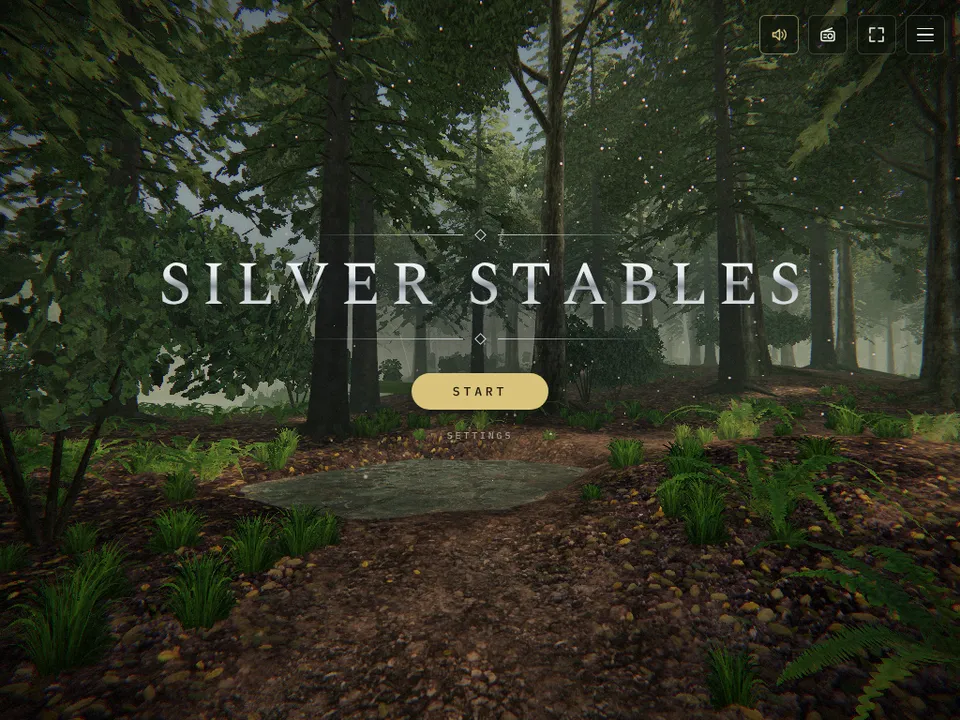
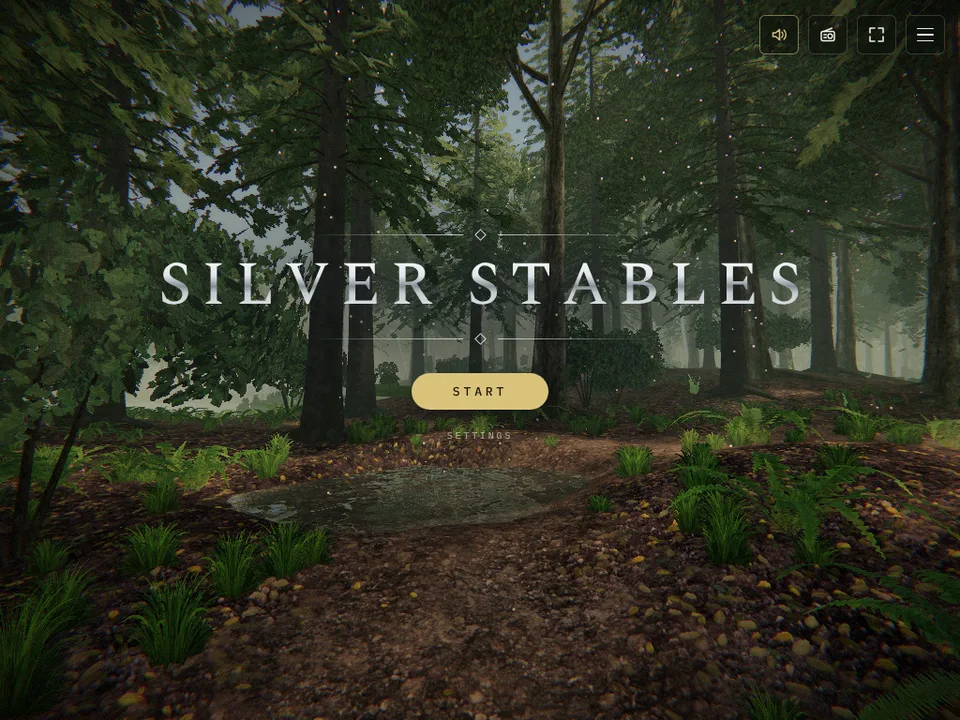
Retake screenshots from current builds; dots and arrows use the colour mode
Claude-Session: https://claude.ai/code/session_01Dmwaw2tYDCJukoA4bse8XX

diff --git a/index.html b/index.html
@@ -198,6 +198,14 @@ footer{margin-top:48px;font:400 14px/1 var(--sans);color:var(--t2)}
 .dev2 .ipad img,.dev2 .dev img{border-radius:0;padding:0;object-fit:cover;object-position:top center;transition:transform 1.2s cubic-bezier(.2,.8,.2,1)}
 .card:hover .dev2 img{transform:scale(1.02)}
 .dots{bottom:12px}
+
+/* dots and arrows take the colour mode's neutrals, not the app colour */
+.dots,.nav{background:color-mix(in srgb,var(--bar) 82%,transparent);backdrop-filter:blur(12px) saturate(1.2);-webkit-backdrop-filter:blur(12px) saturate(1.2)}
+.dot{background:color-mix(in srgb,var(--t2) 45%,transparent)}
+.dot.on{background:var(--t1)}
+.dot:focus-visible,.nav:focus-visible{outline-color:var(--t2)}
+.nav{color:var(--t2)}
+.nav:hover{color:var(--t1);background:var(--bar)}
 </style>
 </head>
 <body>
